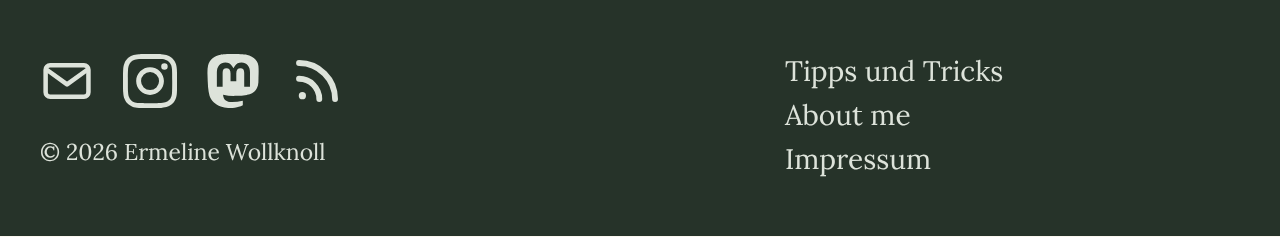
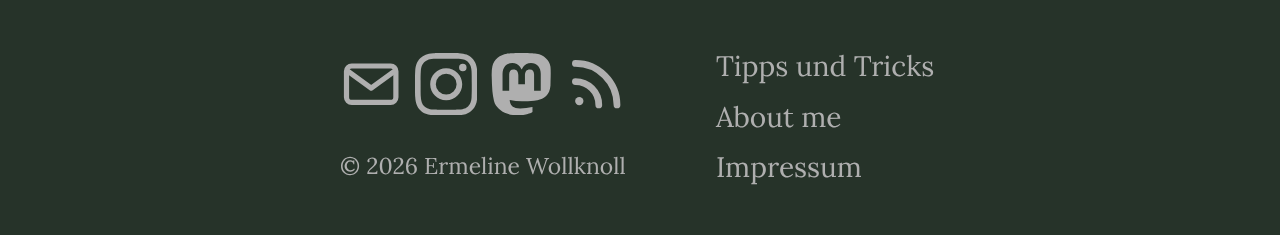
Footer exakt nach Vorlage der Segelgruppe Kiel, Copyright am Handy zuletzt; Anforderung festgeschrieben
Claude-Session: https://claude.ai/code/session_01Py4wJ2ouV9PHHjjEoyaR5m

diff --git a/content/style/footer.css b/content/style/footer.css
@@ -1,20 +1,23 @@
-/* Fußzeile: dunkles Band über die ganze Breite. Links die Icons mit dem Copyright darunter, rechts die Seitenlinks untereinander. */
+/* Fußzeile nach dem Vorbild der Segelgruppe Kiel (genau dieses Layout ist verlangt):
+   Band über die volle Breite, zwei Spalten in einer Zeile mittig; links Icons und darunter das Copyright,
+   rechts die Seitenlinks untereinander. Auf dem Handy: Icons, Links, zuletzt das Copyright. */
 #blogfooter {
   --footer-bg: #263329;
-  --footer-text: #dde3da;
+  --footer-text: #afafaf;
   --footer-hover: #ffffff;
+  --footer-socials-height: 3em;
   margin-top: 3em;
-  padding: 2.4em 1em 2.6em;
+  padding: 2em;
   background: var(--footer-bg);
   color: var(--footer-text);
 
-  & a {
+  & a,
+  & a:visited {
     color: var(--footer-text);
     text-decoration: none;
   }
 
-  & a:hover,
-  & a:focus-visible {
+  & a:hover {
     color: var(--footer-hover);
   }
 
@@ -25,44 +28,44 @@
   }
 
   & .footer-inner {
-    max-width: var(--maxwidth-aside);
-    margin: 0 auto;
-    display: grid;
-    grid-template-columns: minmax(0, 3fr) minmax(0, 2fr);
-    align-items: start;
-    gap: 1.5em 3em;
+    display: flex;
+    flex-direction: row;
+    justify-content: center;
+    gap: 2em 4em;
   }
 
   & .footer-left {
-    min-width: 0;
+    display: flex;
+    flex-direction: column;
+    justify-content: space-evenly;
   }
 
   & .socials {
     display: flex;
-    flex-wrap: wrap;
-    gap: 0.2em 0.6em;
+    flex-direction: row;
+    justify-content: space-evenly;
+    gap: 0.6em;
+    height: var(--footer-socials-height);
+    max-height: var(--footer-socials-height);
     list-style: none;
-    margin-left: -0.4em;
   }
 
   & .socials a {
     display: inline-flex;
     align-items: center;
     justify-content: center;
+    height: var(--footer-socials-height);
     min-width: 44px;
-    min-height: 44px;
-    padding: 0.2em 0.4em;
-    box-sizing: border-box;
   }
 
   & .icon {
-    width: 2.6em;
-    height: 2.6em;
-    flex: none;
+    height: var(--footer-socials-height);
+    width: auto;
+    aspect-ratio: 1;
   }
 
   & .copyright {
-    margin-top: 0.8em;
+    margin-top: 1em;
     font-size: 1.1em;
     line-height: 1.4;
   }
@@ -70,21 +73,35 @@
   & .footer-links {
     display: flex;
     flex-direction: column;
-    flex: 0 1 auto;
     font-family: var(--font-text);
     font-size: 1.35em;
     line-height: 1.4;
   }
 
   & .footer-links a {
-    display: inline-flex;
-    align-items: center;
-    min-height: 44px;
+    display: block;
+    padding: 0.2em;
   }
 }
 
+/* Handy: eine Spalte, das Copyright steht immer zuletzt */
 @media (max-width: 40em) {
   #blogfooter .footer-inner {
-    grid-template-columns: minmax(0, 1fr);
+    flex-direction: column;
+    justify-content: flex-start;
+  }
+
+  #blogfooter .footer-left {
+    display: contents;
+  }
+
+  #blogfooter .socials { order: 1; }
+  #blogfooter .footer-links { order: 2; }
+  #blogfooter .copyright { order: 3; margin-top: 0; }
+
+  #blogfooter .footer-links a {
+    min-height: 44px;
+    display: flex;
+    align-items: center;
   }
 }

diff --git a/openspec/changes/topbar-navigation/specs/site-layout/spec.md b/openspec/changes/topbar-navigation/specs/site-layout/spec.md
@@ -27,7 +27,7 @@ Tag-Cloud und Archiv SHALL auf Karten liegen: heller Hintergrund, abgerundete Ec
 ## MODIFIED Requirements
 
 ### Requirement: Fußzeile
-Jede Seite SHALL am Ende eine Fußzeile als dunkles Band über die volle Breite haben (Vorbild: Fußzeile der Segelgruppe Kiel). Der Inhalt steht im Rahmen bis 1200 px in zwei Spalten: links in einer Zeile die großen Icons der Kontaktwege nach der Spec `contact-links` und darunter der Hinweis „© <Jahr> Ermeline Wollknoll“, rechts untereinander die Links „Tipps und Tricks“ (`/tipps-und-tricks/`), „About me“ (`/about/`) und „Impressum“ (`/impressum/`) in großer, normal starker Schrift. Das Jahr ist das Jahr des Builds. Die Fußzeile ist auch ohne JavaScript vollständig; auf schmalen Fenstern stehen die Spalten untereinander, ohne waagerechtes Scrollen zu verursachen.
+Jede Seite SHALL am Ende eine Fußzeile haben, die genau dem Layout der Fußzeile der Segelgruppe Kiel (segelgruppe-kiel.de) folgt: ein Band über die volle Breite mit Innenabstand 2 em, gedämpfter heller Schrift (`#afafaf`) auf dunklem Grund und zwei Spalten in einer Zeile, mittig angeordnet. Die linke Spalte ist ein Block, in dem eine Navigation mit den Icons der Kontaktwege nach der Spec `contact-links` (eine Zeile, gleichmäßig verteilt, Höhe 3 em) über dem Hinweis „© <Jahr> Ermeline Wollknoll“ steht. Die rechte Spalte ist eine Navigation mit den Links „Tipps und Tricks“ (`/tipps-und-tricks/`), „About me“ (`/about/`) und „Impressum“ (`/impressum/`) als Liste untereinander, ohne Aufzählungszeichen und ohne Unterstreichung, jeweils mit 0,2 em Innenabstand. Links behalten ihre Farbe auch nach dem Besuch. Das Jahr ist das Jahr des Builds. Auf dem Handy steht das Copyright immer als letztes Element der Fußzeile.
 
 #### Scenario: Jahr im Copyright
 - **WHEN** die Seite im Jahr 2021 gebaut wurde
@@ -39,11 +39,19 @@ Jede Seite SHALL am Ende eine Fußzeile als dunkles Band über die volle Breite 
 
 #### Scenario: Anordnung wie das Vorbild
 - **WHEN** eine Seite bei 1280 px Breite geöffnet wird
-- **THEN** spannt die Fußzeile die volle Breite mit dunklem Hintergrund, links stehen die Icons in einer Zeile mit dem Copyright linksbündig darunter, und rechts stehen die drei Links untereinander
+- **THEN** spannt die Fußzeile die volle Breite mit dunklem Hintergrund und Schriftfarbe `#afafaf`, links stehen die Icons in einer Zeile mit dem Copyright linksbündig darunter, und rechts neben diesem Block stehen die drei Links untereinander
+
+#### Scenario: Größe der Icons
+- **WHEN** die Fußzeile angezeigt wird
+- **THEN** sind die Icons 3 em hoch
 
 #### Scenario: Handy
 - **WHEN** eine Seite bei 360 px Breite geöffnet wird
 - **THEN** sind alle Links der Fußzeile sichtbar und erreichbar, und die Seite scrollt nicht waagerecht
+
+#### Scenario: Copyright zuletzt auf dem Handy
+- **WHEN** eine Seite bei 360 px Breite geöffnet wird
+- **THEN** stehen in der Fußzeile von oben nach unten die Icons, die Links und zuletzt das Copyright
 
 #### Scenario: Reihenfolge am Seitenende
 - **WHEN** eine beliebige Seite geöffnet wird

diff --git a/openspec/changes/topbar-navigation/design.md b/openspec/changes/topbar-navigation/design.md
@@ -69,7 +69,7 @@ Unter 48 em zeigt die Topbar Titel, Suche (Lupe als Knopf, klappt das Feld auf b
 
 - „Kategorien“ führt beim Klick auf `/themen/` (Übersicht), die Einträge im Untermenü auf die Kategorieseiten.
 - Das Suchfeld bleibt, jetzt in der Topbar (im Auftrag nicht genannt, für die Auffindbarkeit nötig).
-- Footer nach dem Vorbild der Segelgruppe Kiel: dunkles Band (`#263329`, Text `#dde3da`) über die volle Breite, innen ein Gitter 3 : 2 (`footer-left` mit Icons und Copyright, `footer-links` mit den drei Links untereinander); die Farben sind Variablen am Footer und folgen später dem Farbschema (`farbschema-darkmode`). „Abonnieren“ entfällt, das RSS-Icon genügt. „About me“ steht nur im Footer.
+- Footer: Verbindliche Vorlage ist der Footer der Segelgruppe Kiel (HTML und SCSS der Autorin, siehe `footer.css`): `footer` mit Innenabstand 2 em, Hintergrund dunkel, Text `#afafaf`, `a` und `a:visited` in Textfarbe; `.footer-inner` als Flex-Zeile mittig; `.footer-left` als Flex-Spalte mit `justify-content: space-evenly` (Icon-Navigation 3 em hoch als Flex-Zeile `space-evenly`, darunter das Copyright); rechts die Linkliste ohne Aufzählungszeichen, Einträge mit 0,2 em Innenabstand ohne Unterstreichung. Handy: einspaltig, `.footer-left` wird mit `display: contents` aufgelöst und die Reihenfolge per `order` auf Icons, Links, Copyright gesetzt, damit das Copyright immer zuletzt steht. Die Hintergrundfarbe ist eine Variable am Footer (`#263329`) und folgt später dem Farbschema.
 - `/themen/` und die Schlagwortseiten bleiben erhalten und sind über die Cloud auf der Startseite und über „Kategorien“ erreichbar.
 - Startseite zeigt die zehn neuesten Beiträge wie `/beitraege/`; Archiv: neuestes Jahr und neuester Monat offen, Rest zu.
 

diff --git a/openspec/changes/topbar-navigation/proposal.md b/openspec/changes/topbar-navigation/proposal.md
@@ -13,7 +13,7 @@ Das Layout hat zuletzt drei Spalten bekommen (Navigation links, Inhalt, Sidebar 
 - **Kategorien:** Das Menü klappt alle Kategorien aus `content/categories.yaml` auf. Ein Klick führt auf die Kategorieseite: oben ein kurzer Text zur Kategorie, darunter die Beiträge, daneben dasselbe Archiv nach Monat und Jahr, aber nur mit den Beiträgen dieser Kategorie.
 - **Startseite (Klick auf den Titel):** Zuerst ein kurzer Begrüßungstext (in `content/start.md` pflegbar), direkt danach die neuesten Beiträge. Die Kategoriekacheln entfallen, weil die Kategorien im Menü stehen.
 - **Tag-Cloud nur auf der Startseite:** Die Schlagwort-Cloud steht nur noch dort (Karte neben bzw. unter den Beiträgen). Auf allen anderen Seiten entfallen Cloud und Kategorienliste.
-- **Footer wie die Segelgruppe Kiel:** dunkles Band über die volle Breite; links die großen Icons (E-Mail, Instagram, Mastodon, RSS) in einer Zeile mit dem Copyright darunter, rechts die Links „Tipps und Tricks“, „About me“, „Impressum“ untereinander. Der Textlink „Abonnieren“ entfällt, das RSS-Icon genügt.
+- **Footer genau wie auf segelgruppe-kiel.de:** dunkles Band über die volle Breite, zwei Spalten mittig in einer Zeile; links die Icons (E-Mail, Instagram, Mastodon, RSS, 3 em hoch) mit dem Copyright darunter, rechts die Links „Tipps und Tricks“, „About me“, „Impressum“ untereinander. Auf dem Handy steht das Copyright immer zuletzt. Der Textlink „Abonnieren“ entfällt, das RSS-Icon genügt.
 - **Beibehalten:** Farbschema, Typografie und Karten, a
 
 Nicht Teil dieses Changes: neue Inhalte außer dem Begrüßungstext und den Kategorietexten (Entwürfe zur Prüfung), Änderungen an Suche, Feed oder Deployment.
